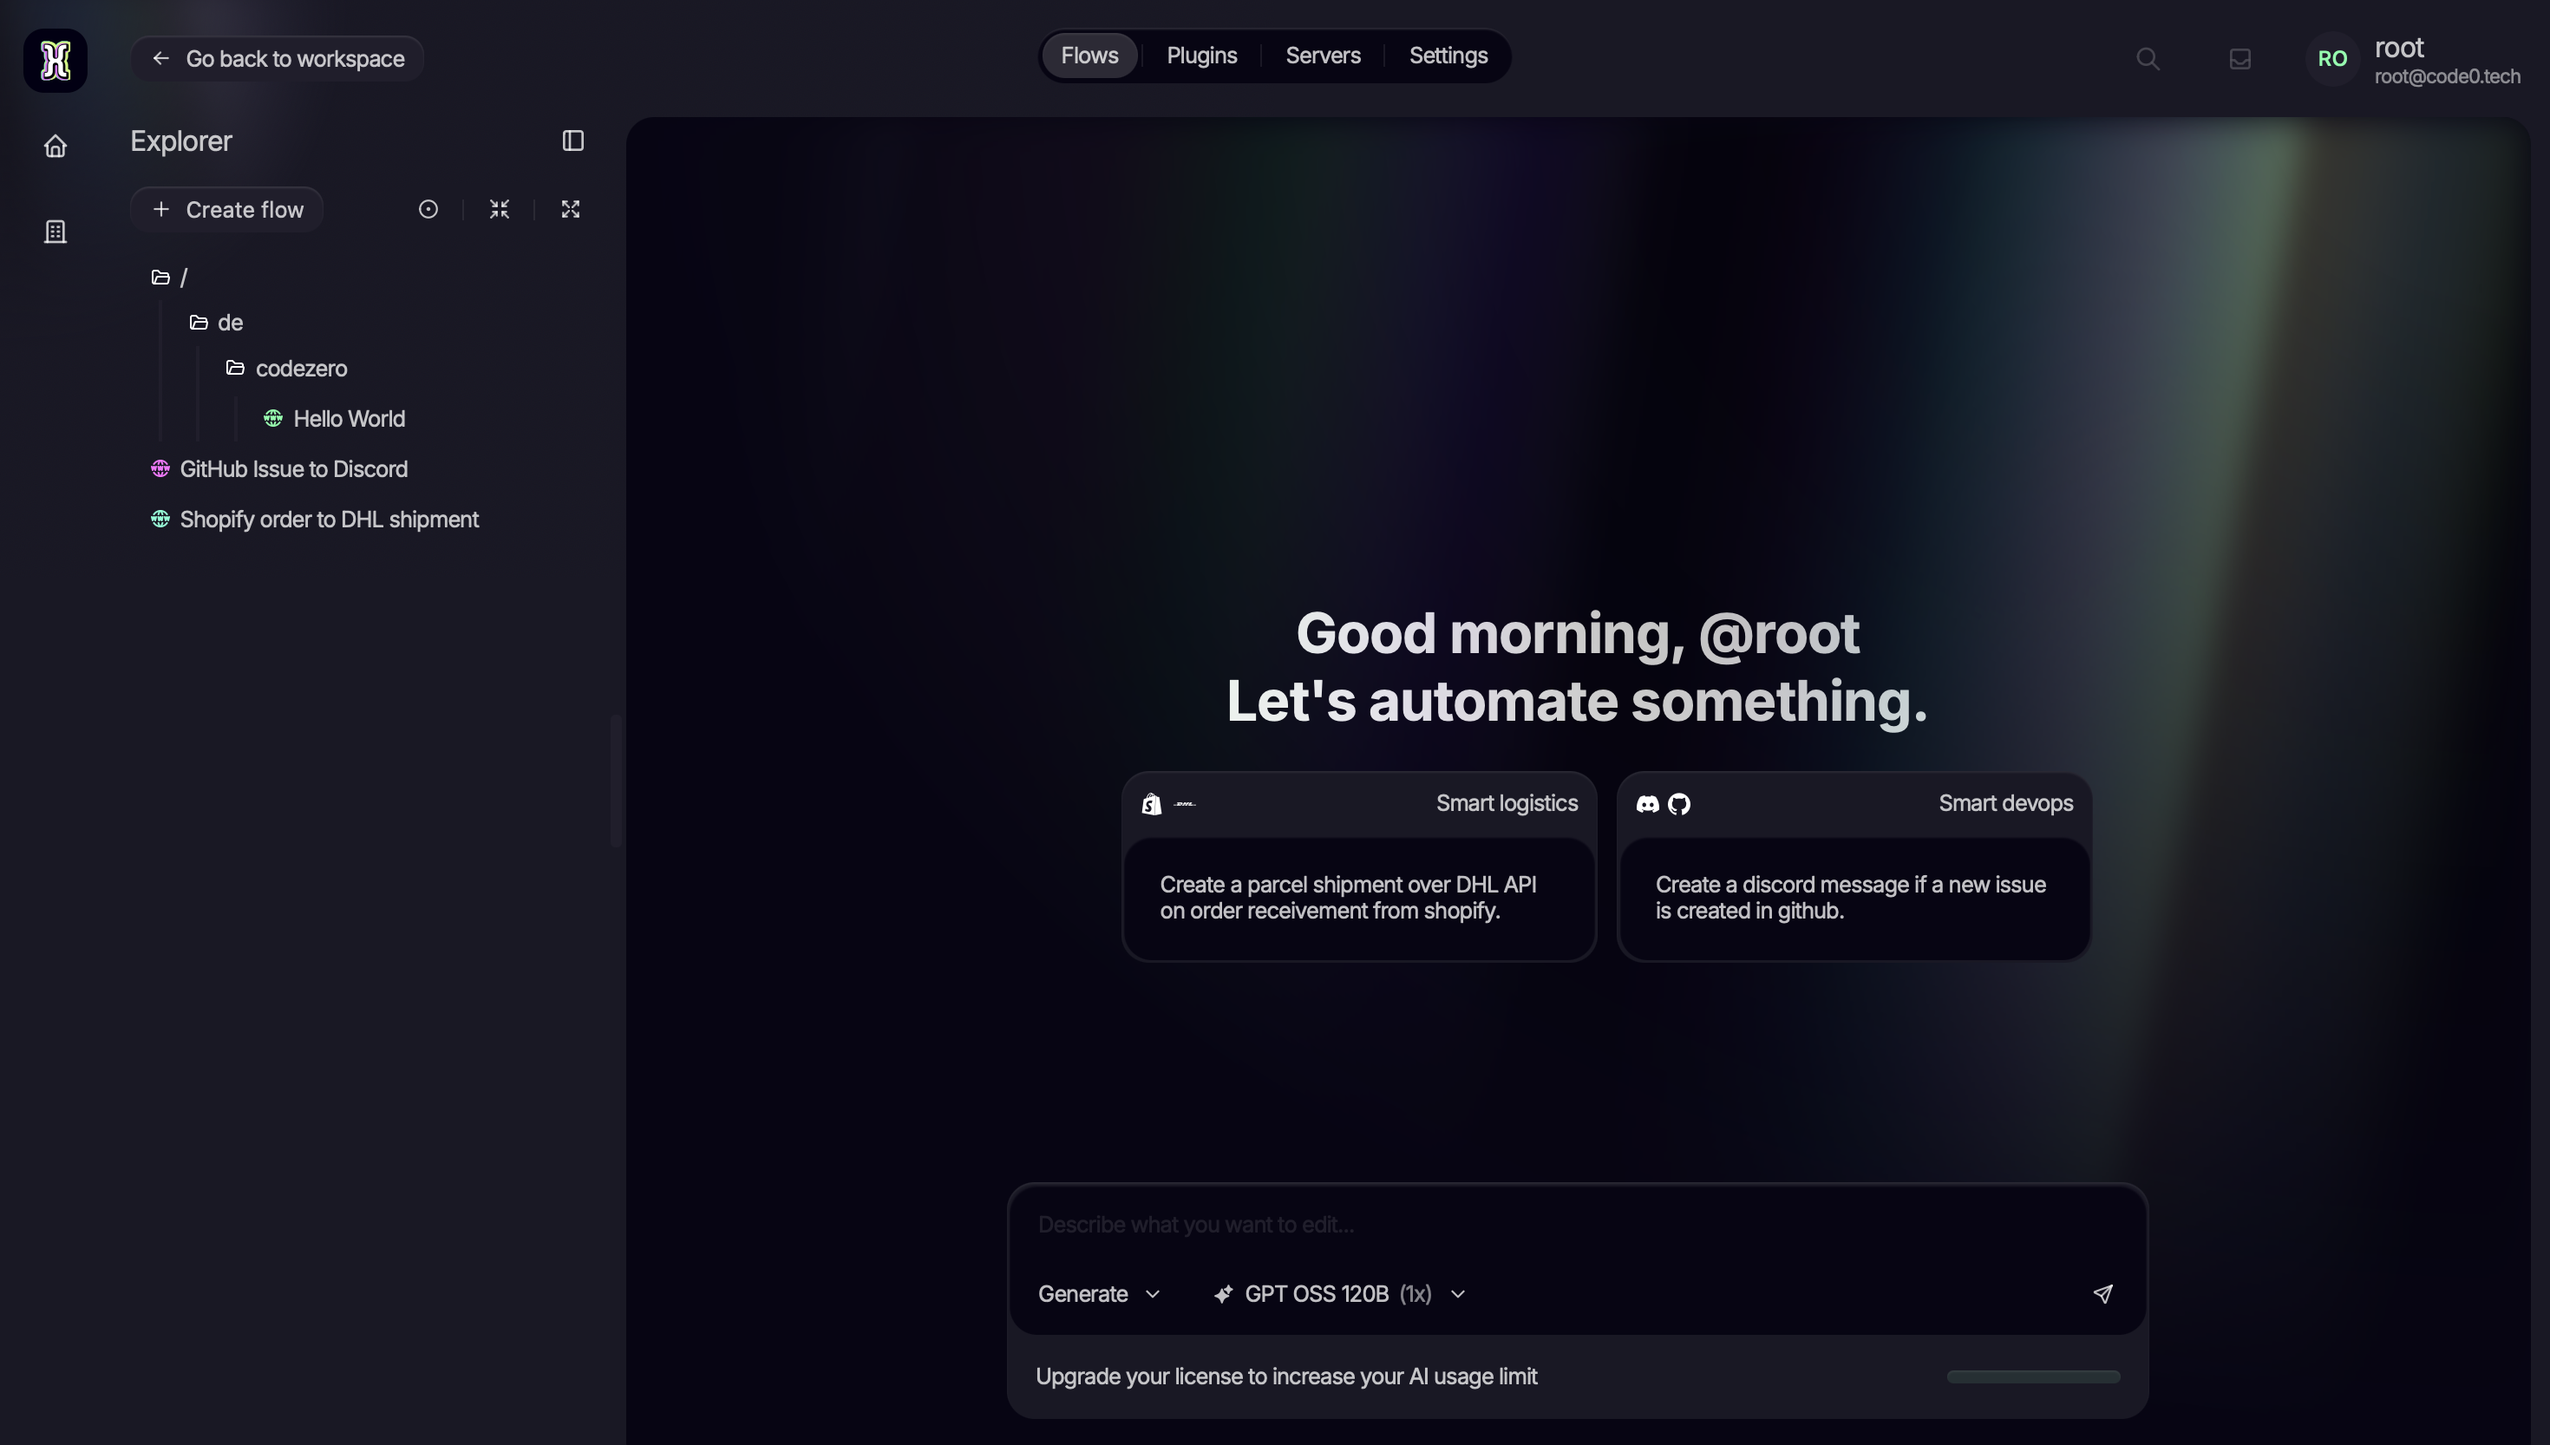
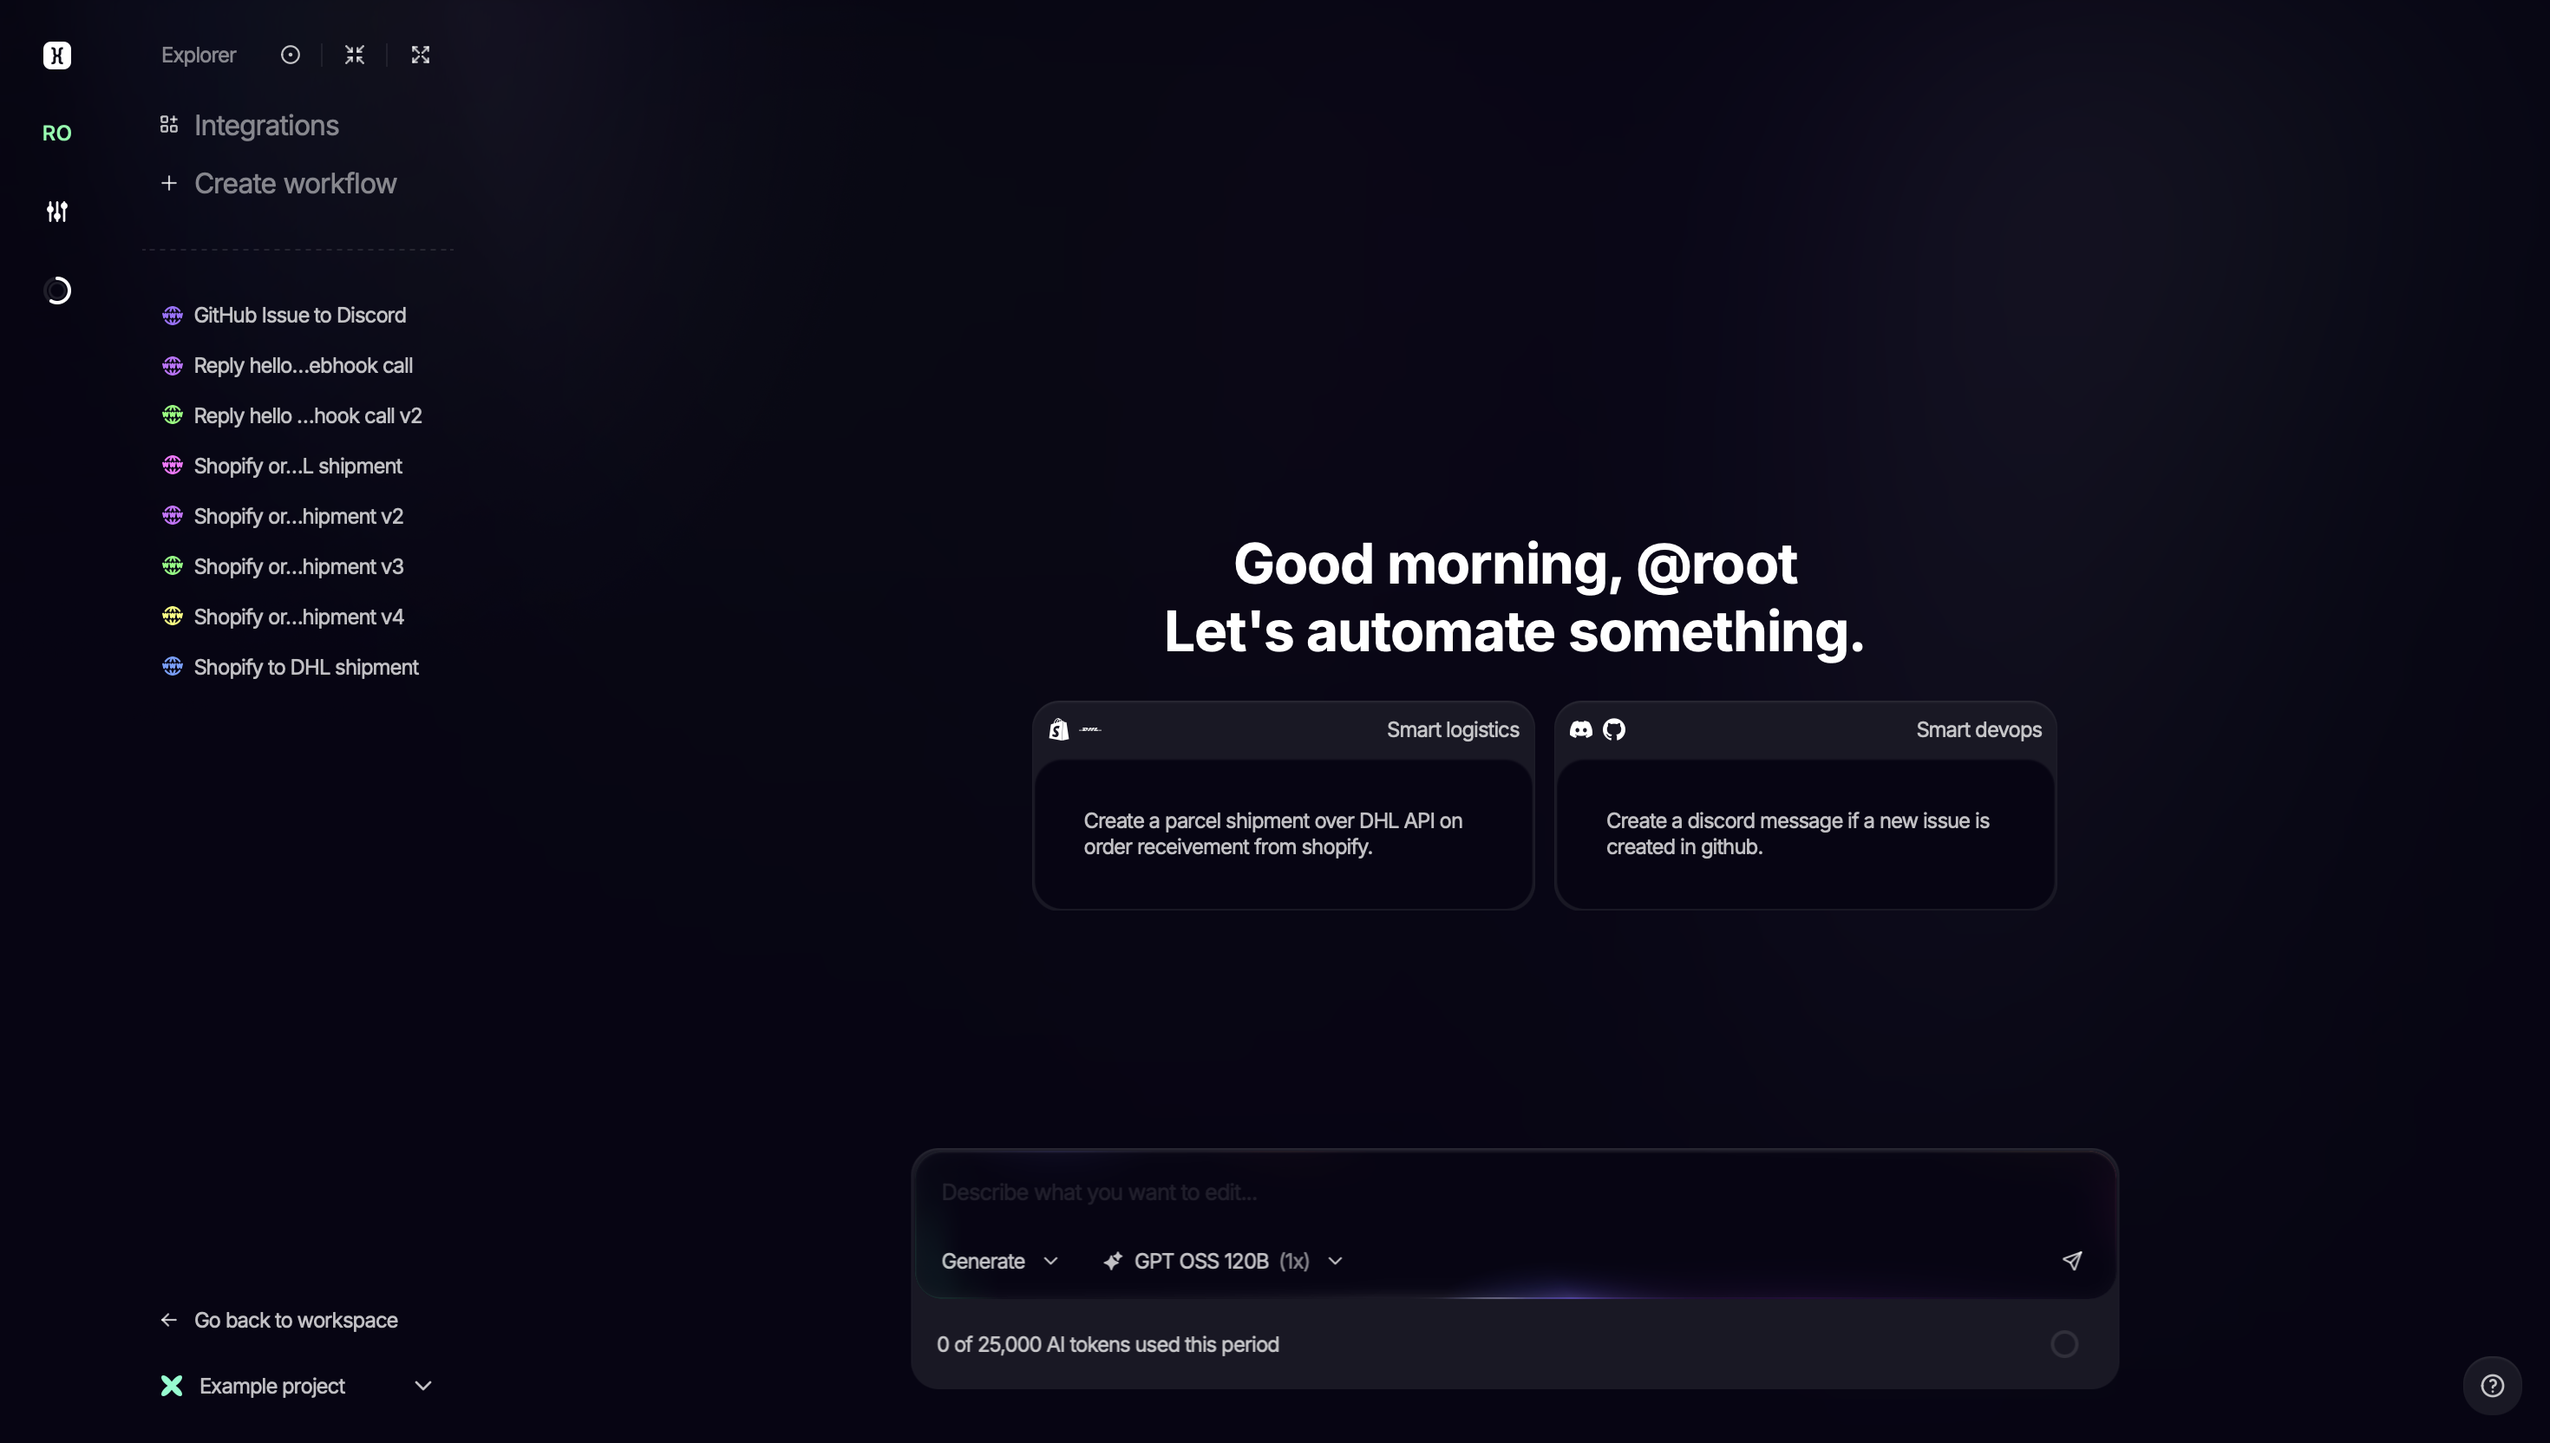
Update README to replace GIF with PNG for flow editing illustration

diff --git a/README.md b/README.md
@@ -36,7 +36,7 @@ Don't start from a blank canvas. Describe what you want or pick a smart template
 
 And it doesn't stop at generation. You can refine, extend, or rewrite any part of your flow with a single prompt, right on the canvas.
 
-![Editing a flow with AI](images/CodeZero_AI.gif)
+![Editing a flow with AI](images/Codezero_Flow_Overview.png)
 
 Bring your own model: plug in OpenAI, OpenRouter, or any compatible provider and choose which models power your workspace.
 
